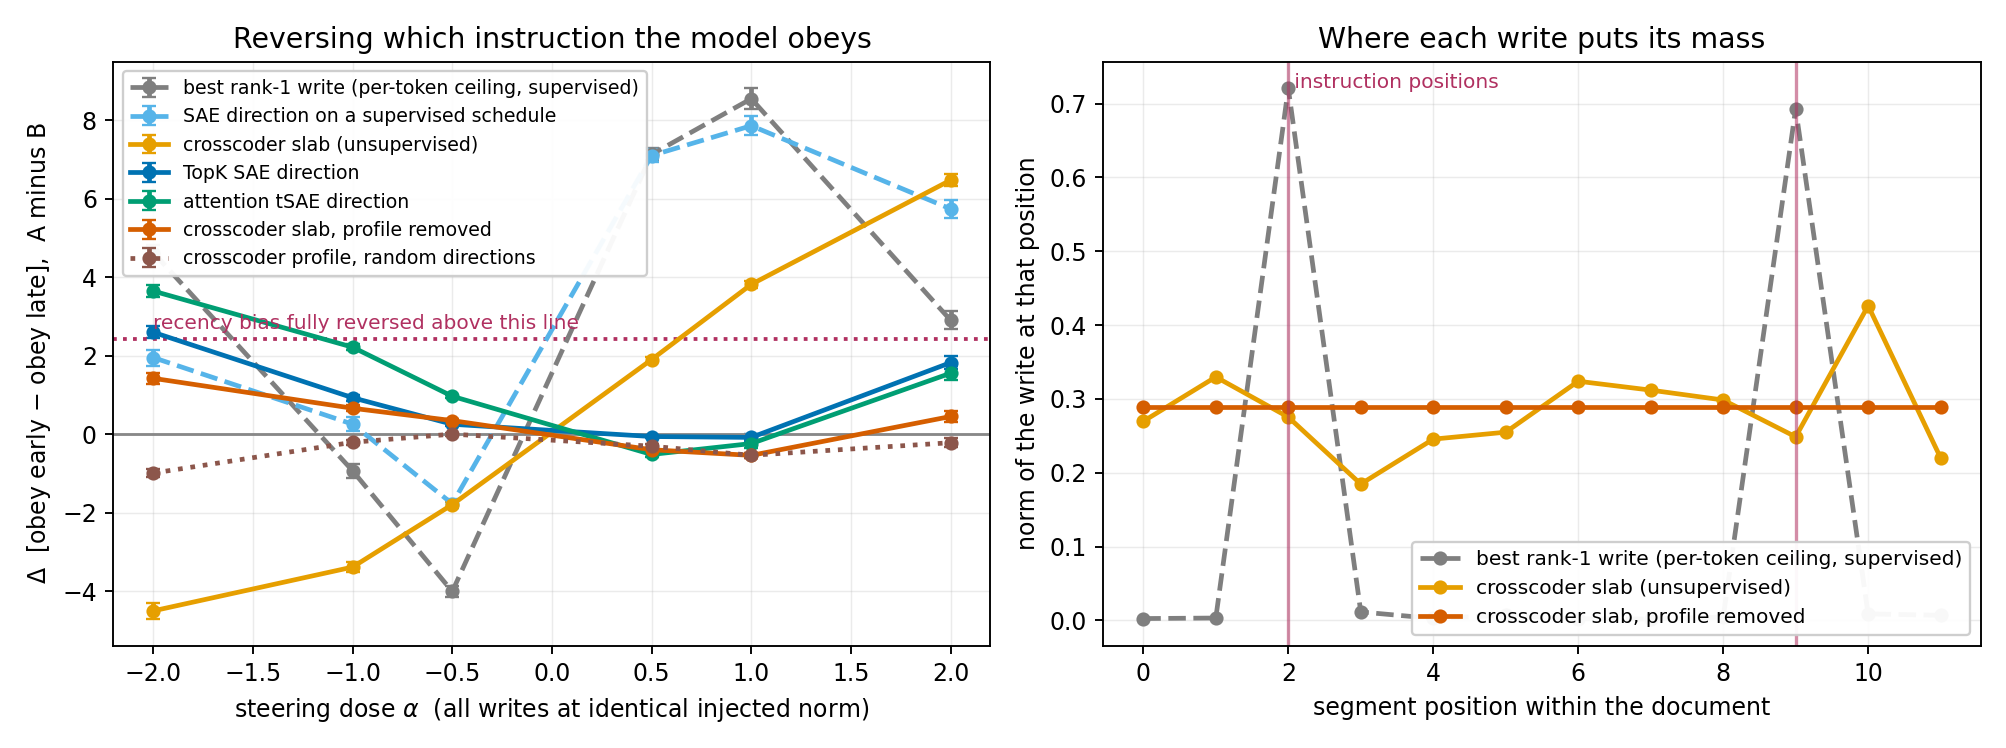
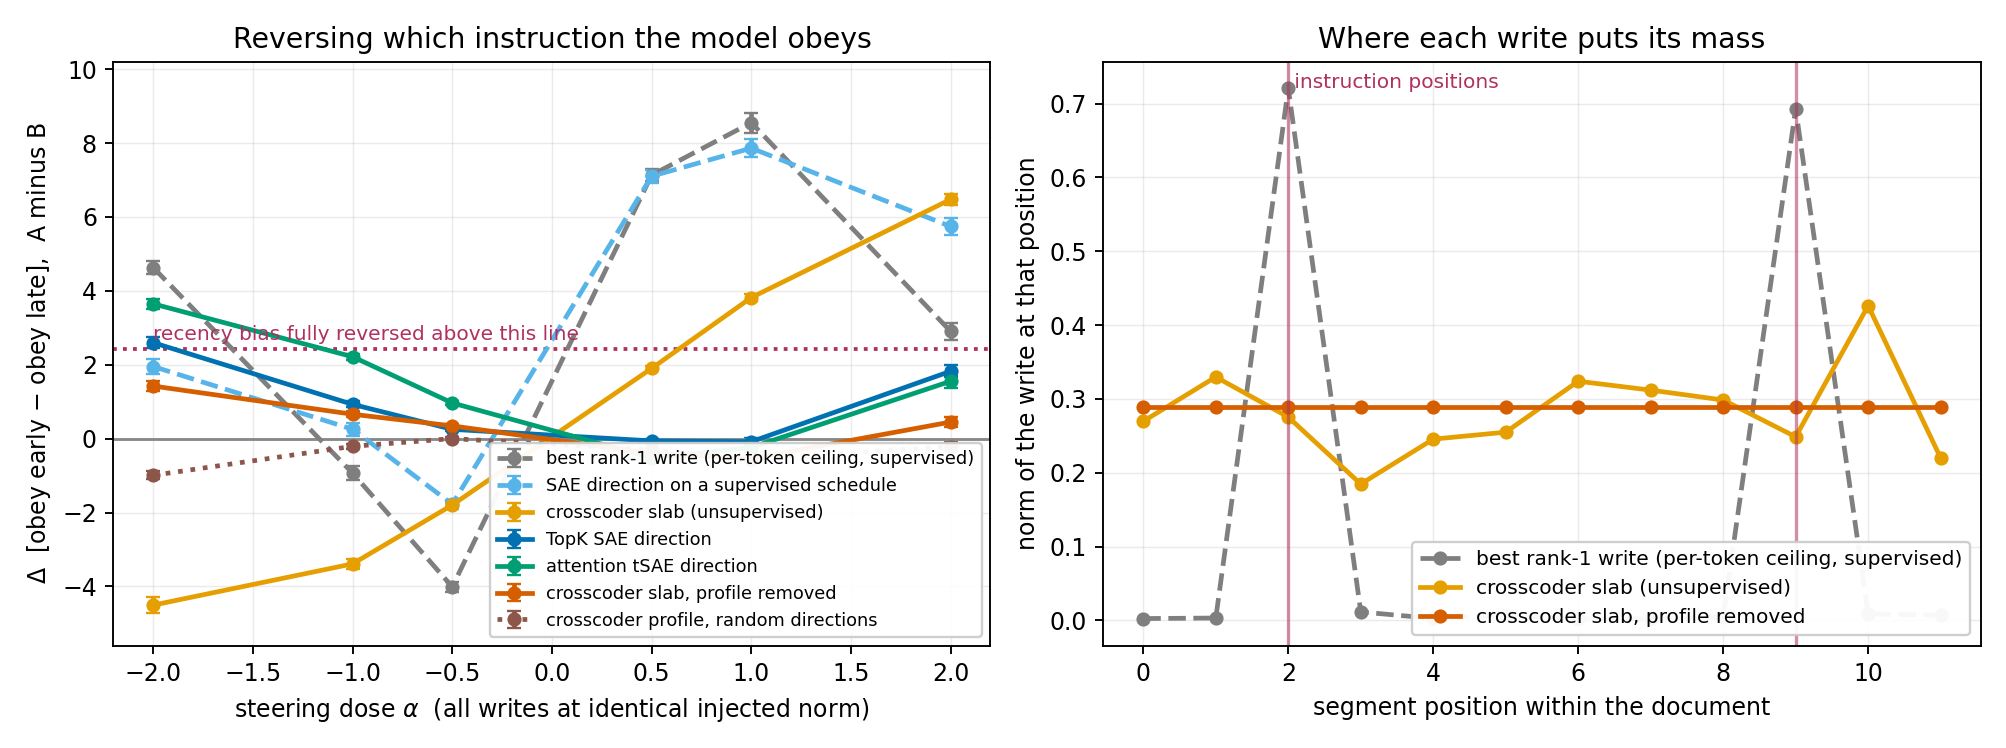
txcwins: correct the recency figure caption -- the crosscoder does NOT target the instruction positions
The supervised rank-1 write puts nearly all its mass on segments 2 and 9; the
crosscoder's profile is flatter, peaks elsewhere, and still reaches 76% of the
supervised effect. I had asserted the opposite.

Claude-Session: https://claude.ai/code/session_019TBT3ZW4RMH7Sir9Ng6aap

diff --git a/scripts/plot_recency.py b/scripts/plot_recency.py
@@ -20,9 +20,13 @@ the model obeys the early instruction, push the other way and it obeys the late 
 is what a directed intervention looks like. Every constant-write arm is positive at BOTH
 extreme doses, which is what a magnitude artefact looks like.
 
-Right: where each write puts its mass. The crosscoder concentrates on the segments that carry
-the instructions; `txc_flat` is the same vector with the profile flattened, which is the whole
-of what a per-token dictionary can express.
+Right: where each write puts its mass, and it corrects the obvious guess. The SUPERVISED
+rank-1 write puts almost all of its mass exactly on the two segments carrying the
+instructions. The crosscoder does NOT: its profile is much flatter, peaks in the wrong places,
+and still reaches 76% of the supervised effect. So the crosscoder is not solving this by
+locating the instructions -- whatever it found is something else that works nearly as well,
+and `txc_profile_random` (the same profile with random directions, flat at 0.00) shows the
+profile alone is not what carries it.
 
 Reads results/txc_wins/recency*.json.
 """
@@ -79,8 +83,9 @@ def main(name: str = "recency") -> int:
     ax.set_xlabel(r"steering dose $\alpha$  (all writes at identical injected norm)")
     ax.set_ylabel(r"$\Delta$  [obey early $-$ obey late],  A minus B")
     ax.set_title("Reversing which instruction the model obeys")
+    ax.set_ylim(-5.6, 10.2)
     ax.grid(alpha=0.25, lw=0.6)
-    ax.legend(loc="upper left", fontsize=8, framealpha=0.95)
+    ax.legend(loc="lower right", fontsize=7.5, framealpha=0.95, ncol=1)
 
     ax = axes[1]
     prof = r.get("write_profile")
